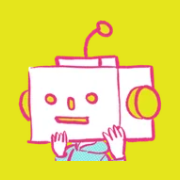
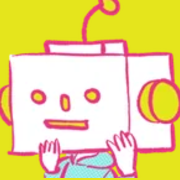
アイコンのロボを大きくし、古いアイコンが残らないよう版番号を付ける

diff --git a/index.html b/index.html
@@ -6,11 +6,11 @@
 <title>PITAAAN！ 備品・発注リスト</title>
 <!-- ホーム画面に追加したときのアイコンと名前。開くとSafari/Chromeで開く（ログインを共有するため） -->
 <link rel="manifest" href="manifest.webmanifest">
-<link rel="apple-touch-icon" href="icons/apple-touch-icon.png">
-<link rel="icon" type="image/png" sizes="16x16" href="icons/favicon-16.png">
-<link rel="icon" type="image/png" sizes="32x32" href="icons/favicon-32.png">
-<link rel="icon" type="image/png" sizes="48x48" href="icons/favicon-48.png">
-<link rel="icon" type="image/png" sizes="192x192" href="icons/icon-192.png">
+<link rel="apple-touch-icon" href="icons/apple-touch-icon.png?v=2">
+<link rel="icon" type="image/png" sizes="16x16" href="icons/favicon-16.png?v=2">
+<link rel="icon" type="image/png" sizes="32x32" href="icons/favicon-32.png?v=2">
+<link rel="icon" type="image/png" sizes="48x48" href="icons/favicon-48.png?v=2">
+<link rel="icon" type="image/png" sizes="192x192" href="icons/icon-192.png?v=2">
 <meta name="apple-mobile-web-app-title" content="発注リスト">
 <meta name="theme-color" content="#fffef2">
 <link rel="preconnect" href="https://fonts.googleapis.com">
